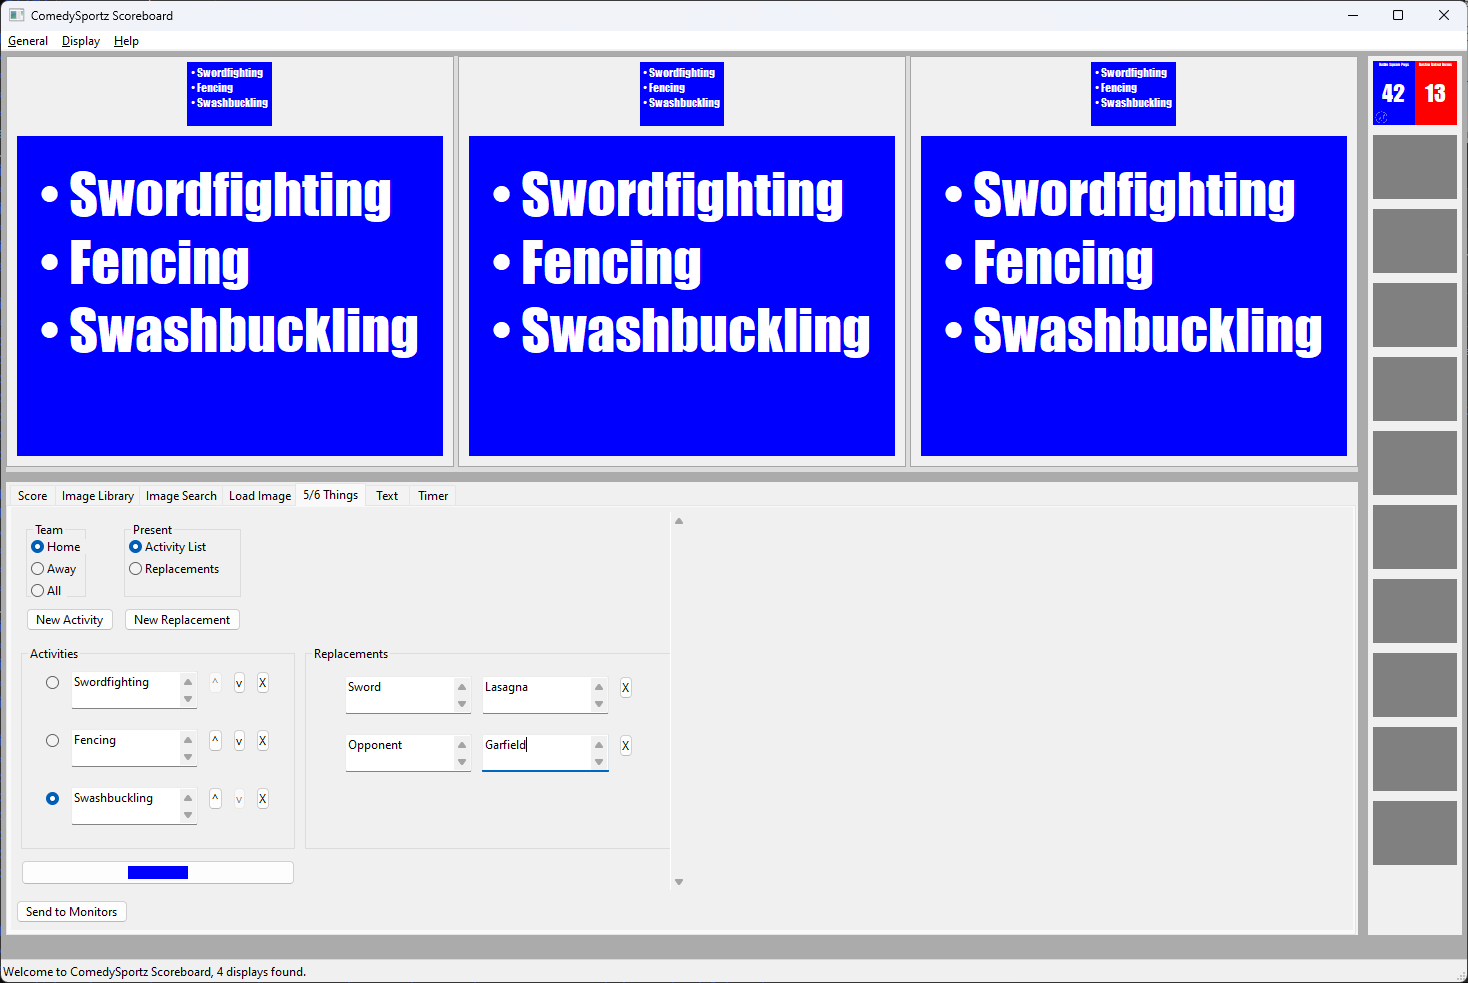
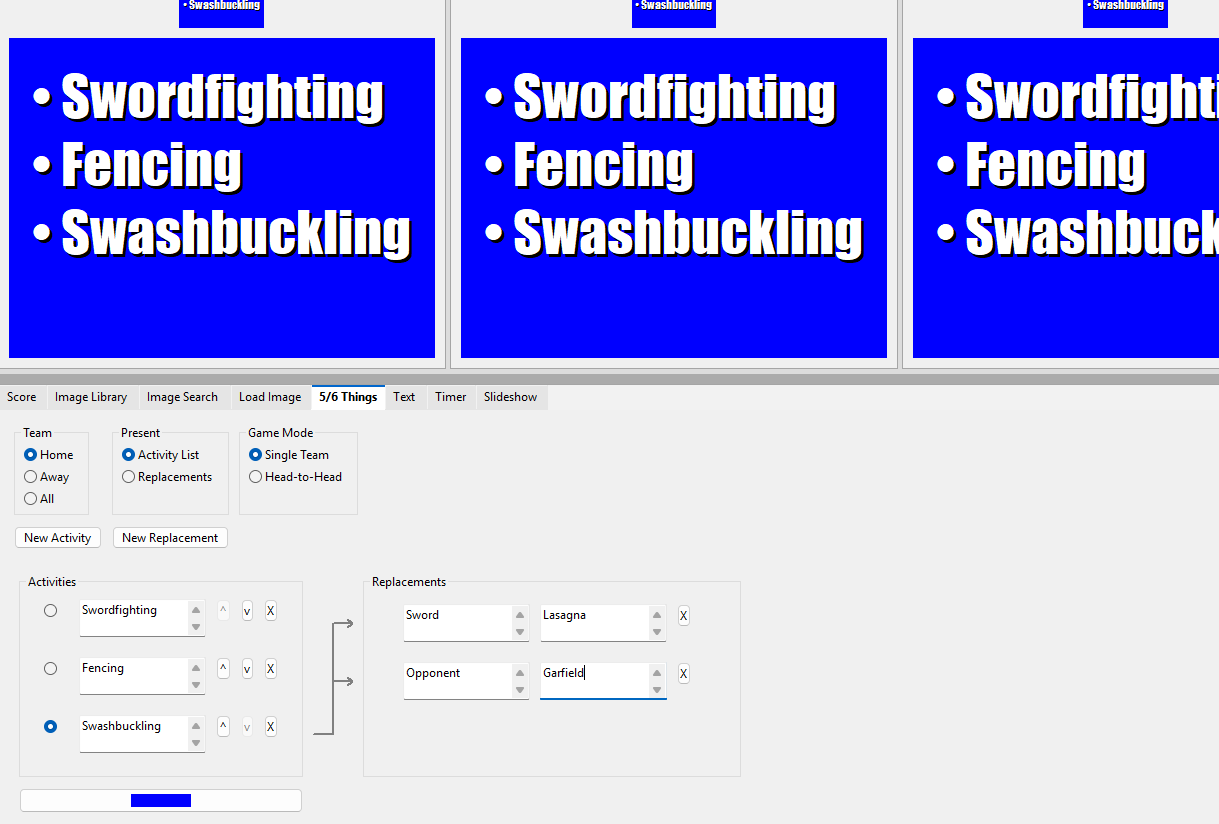
Documentation updates.

diff --git a/doc/users.md b/doc/users.md
@@ -182,7 +182,7 @@ error if the clipboard does not appear to contain an image.
 
 ### 5/6 Things
 
-![alt](img/5_things.png "5/6 Things") _(image taken in version 1.5.0, some visuals may have
+![alt](img/5_things.png "5/6 Things") _(image taken in version 1.9.0, some visuals may have
 changed)_
 
 The 5/6 Things tab is useful for displaying lists of items for guessing games, in particular 5
@@ -198,9 +198,10 @@ activity for editing or display. The "present" selector at the top determines wh
 activities or the list of replacements will be shown on the screen previews (and then on to the
 screens themselves, potentially).
 
-An important note is that each team's list is a separate list (as well as the combined list), so in
-a head-to-head game of 6 things, for instance, where each team has 3 activities, the app can manage
-two lists of three activites, one for each team.
+Beginning with version 1.9.0, there is a head-to-head mode, which allows you to place activities for both the home and away team on the same list.  A new button toggles which team each activity is for.
+
+![alt](img/5_things_head_to_head.png "5/6 Things Head to Head") _(image taken in version 1.9.0, some visuals may have
+changed)_
 
 ### Text
 
@@ -223,8 +224,16 @@ timer, show/hide the timer, and reset the timer to it's specified value (in the 
 respectively. Changing the value of the timer in the numeric fields implicitly resets the timer to
 the new value, even if the timer is currently running. Once running, the timer looks like this:
 
-![alt](img/timer_running.png "Timer in progress") _(image taken in version 1.5.0, some visuals may
-have changed)_
+### Slide Show
+
+The slide show is a fairly simple sequence of images, meant to be used as a pre-match crawl.
+
+![alt](img/slide_show.png "Slide Show") _(image taken in version 1.8.0, some visuals may have
+changed)_
+
+The "Add New Slide" button will bring up a file browser for you to select an image to add.  The new image will be added at the end of the slide show.  The arrows below that button move the browser left/right to see the full slide deck.  Start starts the show and stop stops it, the slide show will show on the thumbnails and monitors themselves, but not in the preview panes.  Upon stopping the slide show, the monitors and thumbnails will revert to the state they were in at the time start was pressed.
+
+The buttons below each image allow you to reorder the images or remove one from the deck.  Below that, the time between slides may be set.
 
 ## Quick States
 